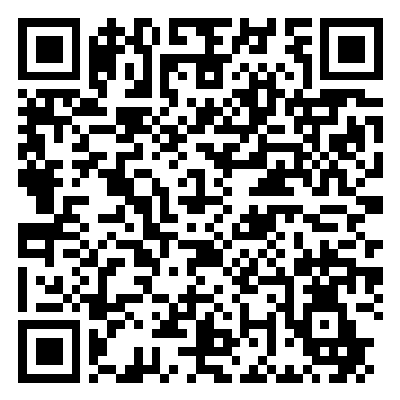
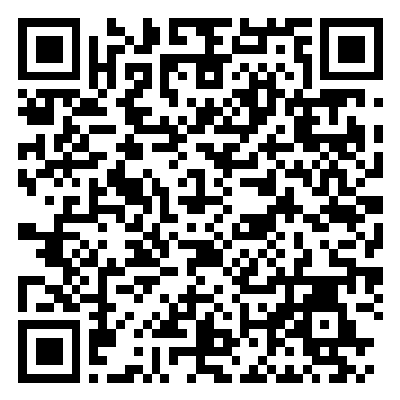
feat: 白名单机制命名 + README内嵌二维码 + LAN直连/statsig + DNS/WebRTC/UDP方法论

diff --git a/index.html b/index.html
@@ -3,13 +3,14 @@
 <head>
 <meta charset="utf-8">
 <meta name="viewport" content="width=device-width, initial-scale=1">
-<title>anti awful Claude rules</title>
+<title>wayne-anti · 白名单机制 · Claude/KYC 安全分流规则</title>
 <style>
   :root{color-scheme:light dark}
-  body{font-family:system-ui,-apple-system,"PingFang SC",sans-serif;max-width:760px;margin:0 auto;padding:24px 18px;line-height:1.75}
+  body{font-family:system-ui,-apple-system,"PingFang SC",sans-serif;max-width:780px;margin:0 auto;padding:24px 18px;line-height:1.75}
   h1{font-size:1.5rem;margin:.2em 0}
   h2{font-size:1.15rem;margin-top:1.6em}
   .sub{color:#888;font-size:.92rem;margin-bottom:1.2em}
+  .badge{display:inline-block;background:#e0f2fe;color:#0369a1;border-radius:999px;padding:1px 10px;font-size:.78rem;font-weight:700;vertical-align:middle}
   .card{border:1px solid #d8dce0;border-radius:12px;padding:16px;margin:14px 0;display:flex;gap:18px;align-items:center;flex-wrap:wrap}
   .card img{border-radius:8px;background:#fff;padding:6px}
   .url{word-break:break-all;font-size:.9rem;margin-top:4px}
@@ -21,21 +22,21 @@
 </style>
 </head>
 <body>
-  <h1>anti awful Claude rules</h1>
-  <p class="sub">基于 <code>sr_cnip_ad</code>（国内外划分 + 广告过滤）的 Shadowrocket 配置：<b>FINAL,proxy 兜底</b> + <b>Claude / Anthropic / Persona(KYC) 全域名强制代理</b>，避免账号流量漏直连、暴露真实 IP。</p>
+  <h1>wayne-anti <span class="badge">白名单机制 · 默认走代理</span></h1>
+  <p class="sub">基于 <code>sr_cnip_ad</code>（国内外划分 + 广告过滤）的 Shadowrocket 配置：兜底 <b>FINAL,proxy</b>（未收录即走代理，fail-safe），只把国内网站挑出来直连；并置顶 <b>Claude / Anthropic / Persona(KYC) 全域名强制代理</b>。</p>
 
   <h2>一键导入 / 扫码</h2>
   <div class="card">
     <div style="flex:1;min-width:220px">
       <div><b>GitHub Pages</b>（推荐）</div>
-      <div class="url"><a href="https://is-wayne.github.io/anti-awful-claude-rules/wayne-anti.conf">wayne-anti.conf</a></div>
+      <div class="url"><a href="https://is-wayne.github.io/anti-awful-claude-rules/wayne-anti-whitelist.conf">wayne-anti-whitelist.conf</a></div>
     </div>
     <img src="qr/wayne-anti-github.png" alt="GitHub Pages 二维码" width="220" height="220">
   </div>
   <div class="card">
     <div style="flex:1;min-width:220px">
       <div><b>Gitea</b>（备用）</div>
-      <div class="url"><a href="https://git.iswayne.com/wayne/anti-awful-claude-rules/raw/branch/main/wayne-anti.conf">Gitea raw 链接</a></div>
+      <div class="url"><a href="https://git.iswayne.com/wayne/anti-awful-claude-rules/raw/branch/main/wayne-anti-whitelist.conf">Gitea raw 链接</a></div>
     </div>
     <img src="qr/wayne-anti-gitea.png" alt="Gitea 二维码" width="220" height="220">
   </div>
@@ -47,6 +48,12 @@
     <li>导入后断开并重连一次，使规则生效。</li>
   </ul>
 
-  <p class="note">建议把 DNS 设为 DoH（如 <code>https://1.1.1.1/dns-query</code>）或走代理，避免 DNS 泄露。详见 README。</p>
+  <h2>DNS / WebRTC 防泄漏</h2>
+  <ul>
+    <li>DNS：走代理域名在节点侧解析，目标域名+IP 全在规则里就不漏；怕漏用白名单兜底 <code>FINAL,proxy</code>。验证：<a href="https://www.dnsleaktest.com/">dnsleaktest.com</a>。</li>
+    <li>WebRTC：小火箭打开「禁用 STUN」；验证：<a href="https://browserleaks.com/webrtc">browserleaks.com/webrtc</a> 只露节点 IP。</li>
+  </ul>
+
+  <p class="note">详细机制、STUN/UDP 说明见仓库 README。</p>
 </body>
 </html>

diff --git a/README.md b/README.md
@@ -1,51 +1,62 @@
-# anti awful Claude rules
+# wayne-anti · 白名单机制 · Claude/KYC 安全分流规则
 
-基于 [Johnshall/Shadowrocket-ADBlock-Rules-Forever](https://github.com/Johnshall/Shadowrocket-ADBlock-Rules-Forever) 的 `sr_cnip_ad.conf`（国内外划分 + 广告过滤）优化，加入 **Claude / Anthropic / Persona(KYC) 全域名强制代理**，避免账号相关流量因规则漏配而直连、暴露真实 IP。
+> **白名单机制（默认走代理）**：兜底 `FINAL,proxy`，只用规则把「国内网站」挑出来**走直连**，未收录 / 难判定的流量**默认走代理**（fail-safe，安全）。
+> 与之相对的「黑名单机制」是默认直连、只把被墙站挑出来走代理（fail-open，漏一个域名就暴露真实 IP）。
 
-## 一键导入 / 扫码
+基于 [Johnshall/Shadowrocket-ADBlock-Rules-Forever](https://github.com/Johnshall/Shadowrocket-ADBlock-Rules-Forever) 的 `sr_cnip_ad.conf`（国内外划分 + 广告过滤）优化，加入 **Claude / Anthropic / Persona(KYC) 全域名强制代理**。
 
-- **GitHub Pages（推荐）**：<https://is-wayne.github.io/anti-awful-claude-rules/wayne-anti.conf>
-- **Gitea（备用）**：<https://git.iswayne.com/wayne/anti-awful-claude-rules/raw/branch/main/wayne-anti.conf>
-- **落地页（含二维码）**：<https://is-wayne.github.io/anti-awful-claude-rules/>
+## 一键导入（可直接扫码）
 
-### 用法
+| GitHub Pages（推荐） | Gitea（备用） |
+|:---:|:---:|
+| ![GitHub Pages 二维码](qr/wayne-anti-github.png) | ![Gitea 二维码](qr/wayne-anti-gitea.png) |
+| <https://is-wayne.github.io/anti-awful-claude-rules/wayne-anti-whitelist.conf> | <https://git.iswayne.com/wayne/anti-awful-claude-rules/raw/branch/main/wayne-anti-whitelist.conf> |
 
-1. 用 Safari 或 Shadowrocket 扫描落地页上的二维码；或
-2. Shadowrocket →「配置」→ 右上角 **+** → 粘贴上面的 URL → 下载；
-3. 导入后断开并重连一次，使规则生效。
+**用法**：用 Safari 或 Shadowrocket 扫上面二维码；或 Shadowrocket →「配置」→ 右上角 **+** → 粘贴 URL → 下载 → 断开重连一次生效。
 
-> 建议把 DNS 设为 DoH（如 `https://1.1.1.1/dns-query`）或走代理，避免 DNS 泄露（`GEOIP,CN` 判定需要解析域名）。
+> 落地页（同样是二维码，可视需要打开）：<https://is-wayne.github.io/anti-awful-claude-rules/>
 
-## 为什么需要这个（真实翻车复盘）
-
-- Mac 端用的是 GFWList 白名单式规则（`FINAL,DIRECT`），而 KYC 上传证件的域名 `withpersona.com` 未被收录 → **直连 → 暴露真实国内 IP**；
-- 手机端用的是 `sr_cnip_ad`（`FINAL,proxy`）→ 同一域名走代理；
-- 同一笔 KYC：电脑端国内 IP、手机端代理 IP，**双端 IP 不一致 → 秒封**。
-
-**结论：规则要做「减法」——兜底 `FINAL,proxy`（默认走代理），再用规则把「国内网站」挑出来走直连；而不是只挑「国外网站」走代理、其余直连。**
+## 机制说明：为什么是「白名单」
 
 - `FINAL,proxy`：未收录 / 难判定的流量默认**走代理**（fail-safe，安全）。
 - `FINAL,DIRECT`：未收录的流量默认**直连**（fail-open，漏）。
 
-对账号 / 隐私敏感场景（Claude、KYC、支付），必须选前者。
+对账号 / 隐私敏感场景（Claude、KYC、支付），必须选**白名单机制（默认代理）**。真实翻车复盘：Mac 端用 `FINAL,DIRECT` 白名单式，KYC 上传证件的 `withpersona.com` 未被收录 → 直连暴露真实国内 IP；手机端 `FINAL,proxy` → 走代理；双端 IP 不一致 → KYC 完成即封。
 
 ## 相对原规则的改动
 
-1. 在 `[Rule]` **顶部置顶** Claude / Anthropic / Persona-KYC 强制代理（first-match-wins，优先于广告 `Reject` 与 `GEOIP,CN` 判定）。
-2. 补回原 ip.net.coffee「可复制清单」里遗漏的 KYC 域名：`withpersona.com` / `frompersona.com` / `maps.googleapis.com`。
-3. 增加 Anthropic 自有网段兜底：`IP-CIDR,160.79.104.0/21`、`IP-CIDR6,2607:6bc0::/32`（ASN 规则默认注释，兼容性考虑）。
+1. `[Rule]` **顶部置顶** Claude / Anthropic / Persona-KYC 强制代理（first-match-wins，优先于广告 `Reject` 与 `GEOIP,CN`）。
+2. 补回原 ip.net.coffee「可复制清单」遗漏的 KYC 域名：`withpersona.com` / `frompersona.com` / `maps.googleapis.com`。
+3. v2 增强：顶部加**局域网 / 私有地址直连**（`127/8`、`10/8`、`172.16/12`、`192.168/16`、`169.254/16`、`::1`、`fc00::/7`、`fe80::/10`，`no-resolve`）；加 `DOMAIN-KEYWORD,statsig`；Anthropic 自有网段兜底 `IP-CIDR,160.79.104.0/21`、`IP-CIDR6,2607:6bc0::/32`。
 
-原有「国内外划分 + 广告过滤 + `FINAL,proxy`」全部保留，未改动。
+原有「国内外划分 + 广告过滤 + `FINAL,proxy`」全部保留。
+
+## DNS / WebRTC / UDP 防泄漏（配合本规则）
+
+- **DNS**：走代理的域名，其 DNS 查询在节点侧解析。只要**目标域名与 IP 都在规则里**（本规则已把 Claude/KYC 全部显式代理），就不会漏；怕漏就用本规则的**白名单兜底 `FINAL,proxy`**。
+  - 验证：[dnsleaktest.com](https://www.dnsleaktest.com/) 只显示节点 DNS、无本地运营商才算过。
+  - 参考教程：<https://youtu.be/gRpViKi23jQ?is=YXyQr71mzQsTHgiv>
+- **WebRTC**：Shadowrocket 有内置「**禁用 STUN**」开关，直接开即可；桌面端 Firefox 可在 `about:config` 关 `media.peerconnection.enabled`，Chrome 装 *WebRTC Control* 扩展。
+  - 验证：[browserleaks.com/webrtc](https://browserleaks.com/webrtc) 只暴露节点 IP、无本地 IP 才算过。
+  - 参考教程：<https://youtu.be/ONd_rAYLji0?is=utzTbZvGeMZJp7pa>
+- **STUN / UDP**：STUN 走 UDP 端口 `3478 / 5349 / 19302`。Shadowrocket 开「禁用 STUN」即可；若用 sing-box / clash 内核，把 STUN 协议与这些 UDP 端口路由到代理，参考：
+
+```json
+{ "action": "sniff", "sniffer": ["tls","http","quic","stun","dns"], "timeout": "300ms" },
+{ "protocol": "stun", "outbound": "🚀 默认代理" },
+{ "port": [3478, 5349, 19302], "network": "udp", "outbound": "🚀 默认代理" }
+```
 
 ## 应用后验证
 
-- 打开 `https://withpersona.com/cdn-cgi/trace` → 应显示代理节点地区（如 `SG`），而不是 `CN`；
-- 手机与电脑都打开 `https://www.cloudflare.com/cdn-cgi/trace` → 两端 `ip=` 一致；
-- 确认无误后再进行登录 / KYC。
+1. `https://withpersona.com/cdn-cgi/trace` → 应为节点地区（如 `SG`），不是 `CN`；
+2. 手机与电脑都打开 `https://www.cloudflare.com/cdn-cgi/trace` → 两端 `ip=` 一致；
+3. `dnsleaktest.com` / `browserleaks.com/webrtc` 只暴露节点、无本地运营商/本地 IP；
+4. 全部通过再进行登录 / KYC。
 
 ## 文件
 
-- `wayne-anti.conf`：完整 Shadowrocket 配置（基于 `sr_cnip_ad.conf`，约 5.3 万行）。
+- `wayne-anti-whitelist.conf`：完整 Shadowrocket 配置（基于 `sr_cnip_ad.conf`，约 5.37 万行，白名单机制）。
 - `claude-kyc-proxy.snippet`：仅 Claude / KYC 的置顶规则块，便于粘贴到现有配置。
 - `index.html` / `qr/`：GitHub Pages 落地页与二维码。
 - `push-both.sh`：一键提交并同时推送到 GitHub + Gitea。
@@ -53,12 +64,13 @@
 ## 维护（双推）
 
 ```bash
-./push-both.sh "提交说明"   # 提交并推送到 github 与 gitea
+./push-both.sh "提交说明"
 ```
 
 ## 来源与许可
 
-- 基于 [Johnshall/Shadowrocket-ADBlock-Rules-Forever](https://github.com/Johnshall/Shadowrocket-ADBlock-Rules-Forever) 的 `sr_cnip_ad.conf` 修改；
-- Claude / Anthropic / KYC 域名清单参考 [ip.net.coffee](https://ip.net.coffee/claude/site.html)。
+- 规则基底：[Johnshall/Shadowrocket-ADBlock-Rules-Forever](https://github.com/Johnshall/Shadowrocket-ADBlock-Rules-Forever)（`sr_cnip_ad.conf`）。
+- Claude / Anthropic / KYC 域名清单：[ip.net.coffee](https://ip.net.coffee/claude/site.html)。
+- 出口 IP 选型 / KYC 风控方法论参考：[NexIP 博客](https://nexip.net/blog/289.html)、NodeSeek 讨论帖。
 
 本作品采用 **CC BY-SA 4.0** 许可（与原项目一致），详见 [LICENSE](LICENSE)。
